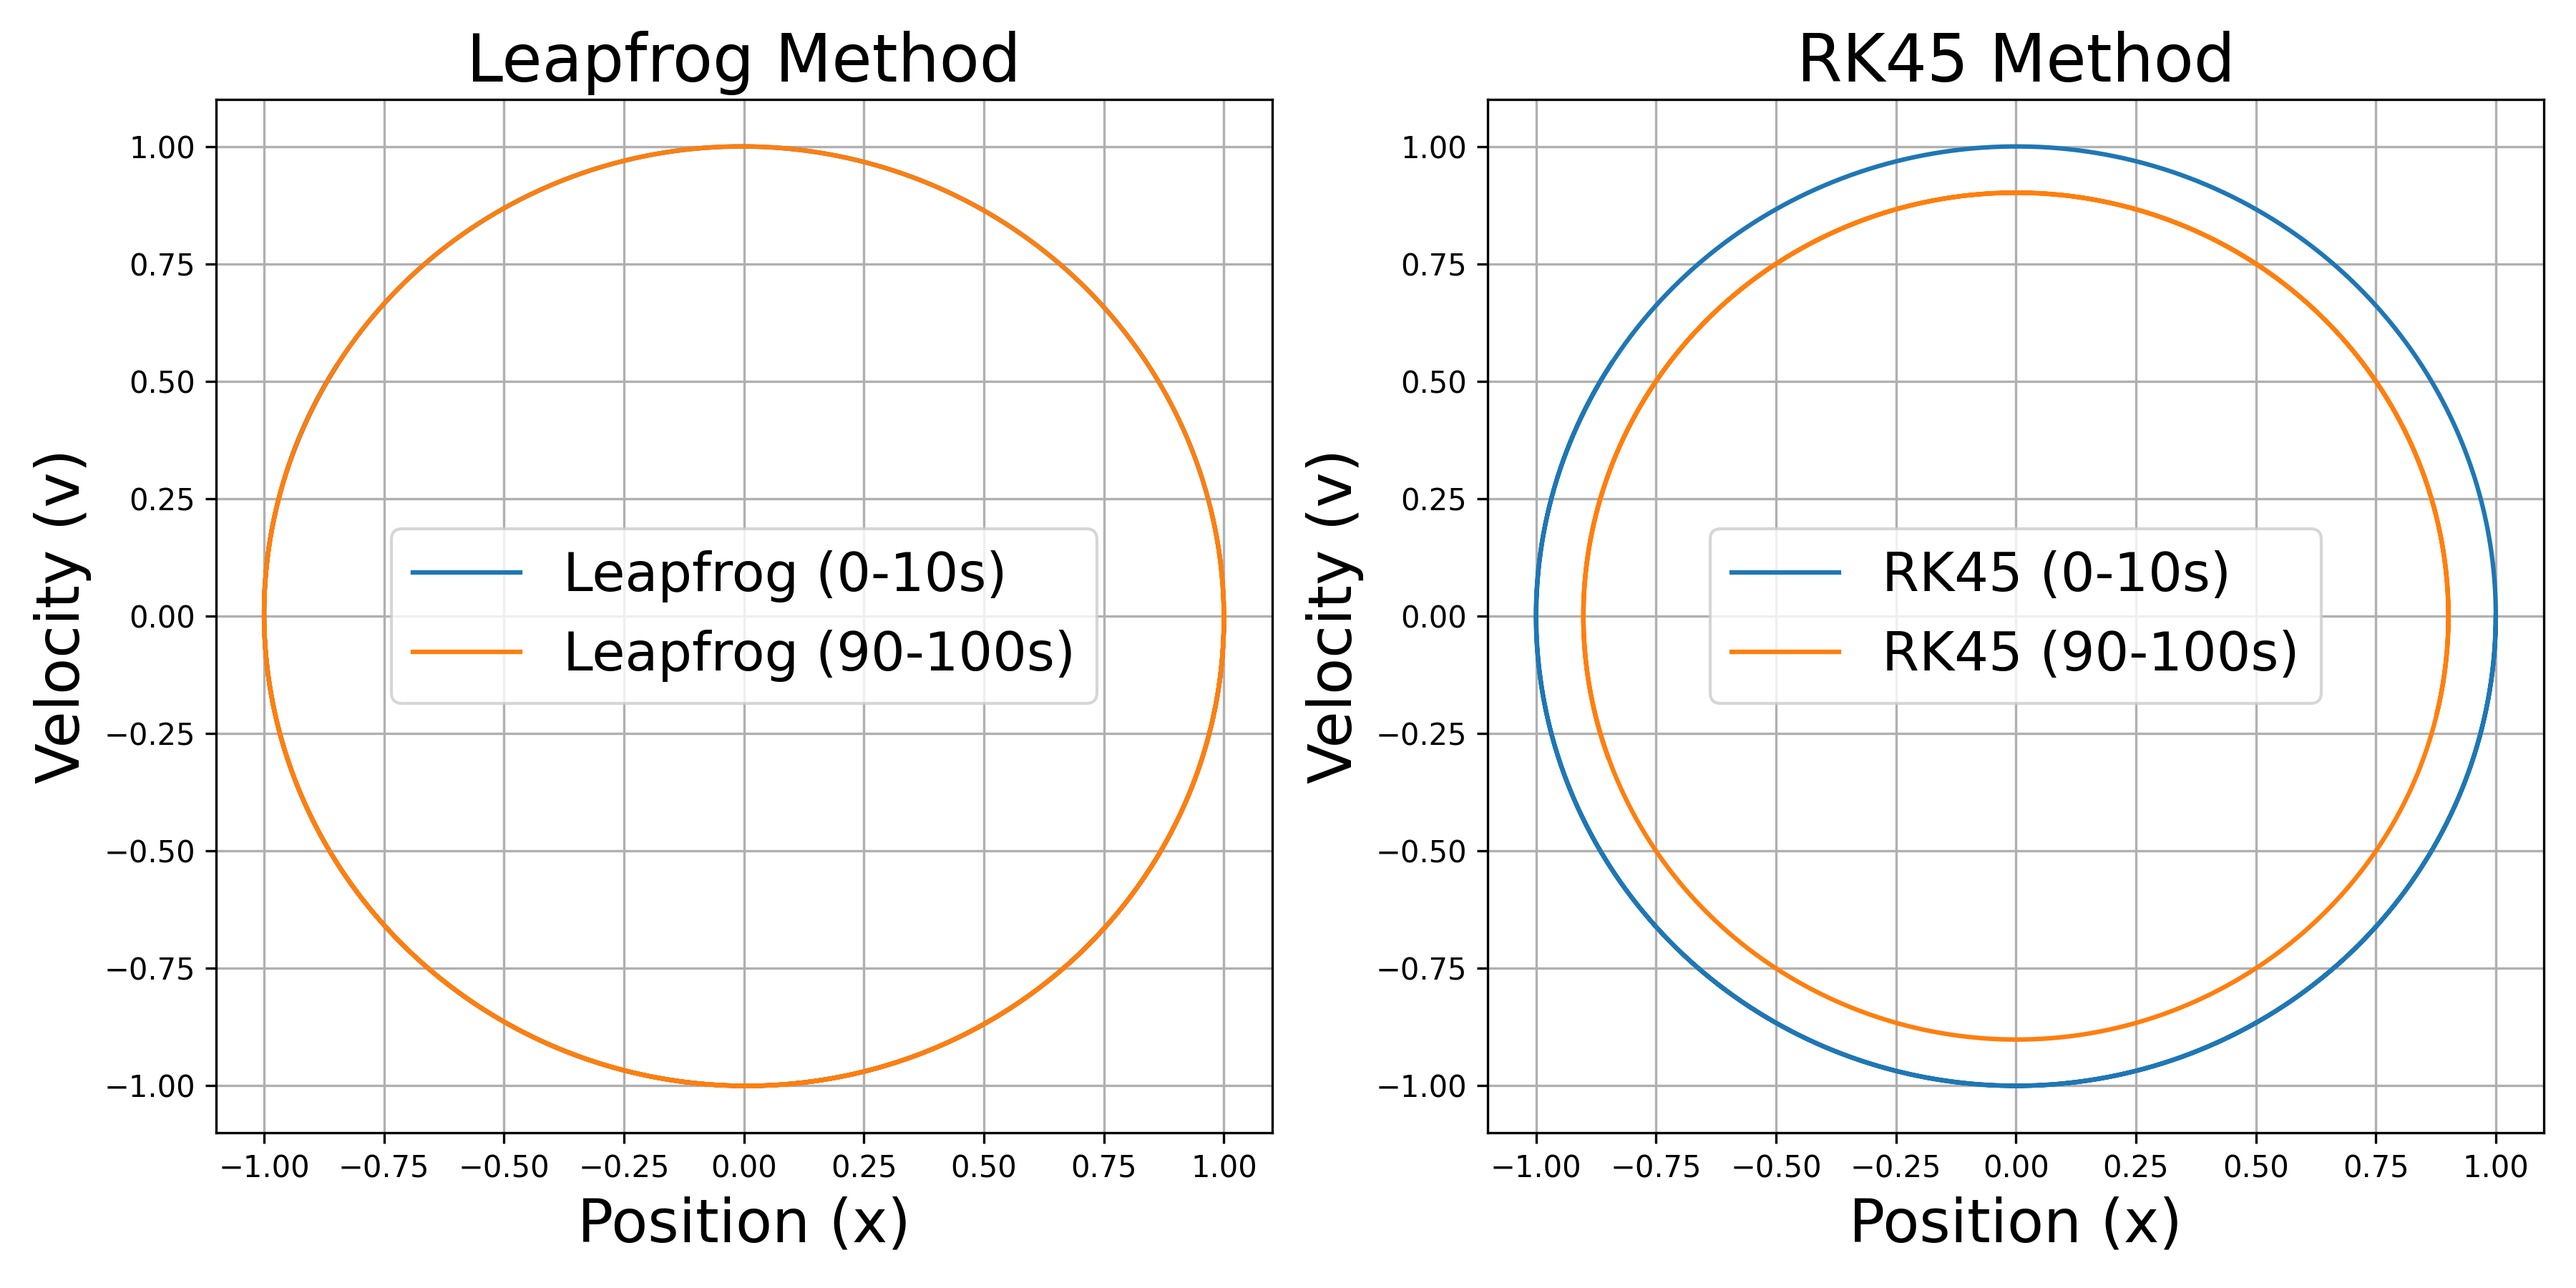
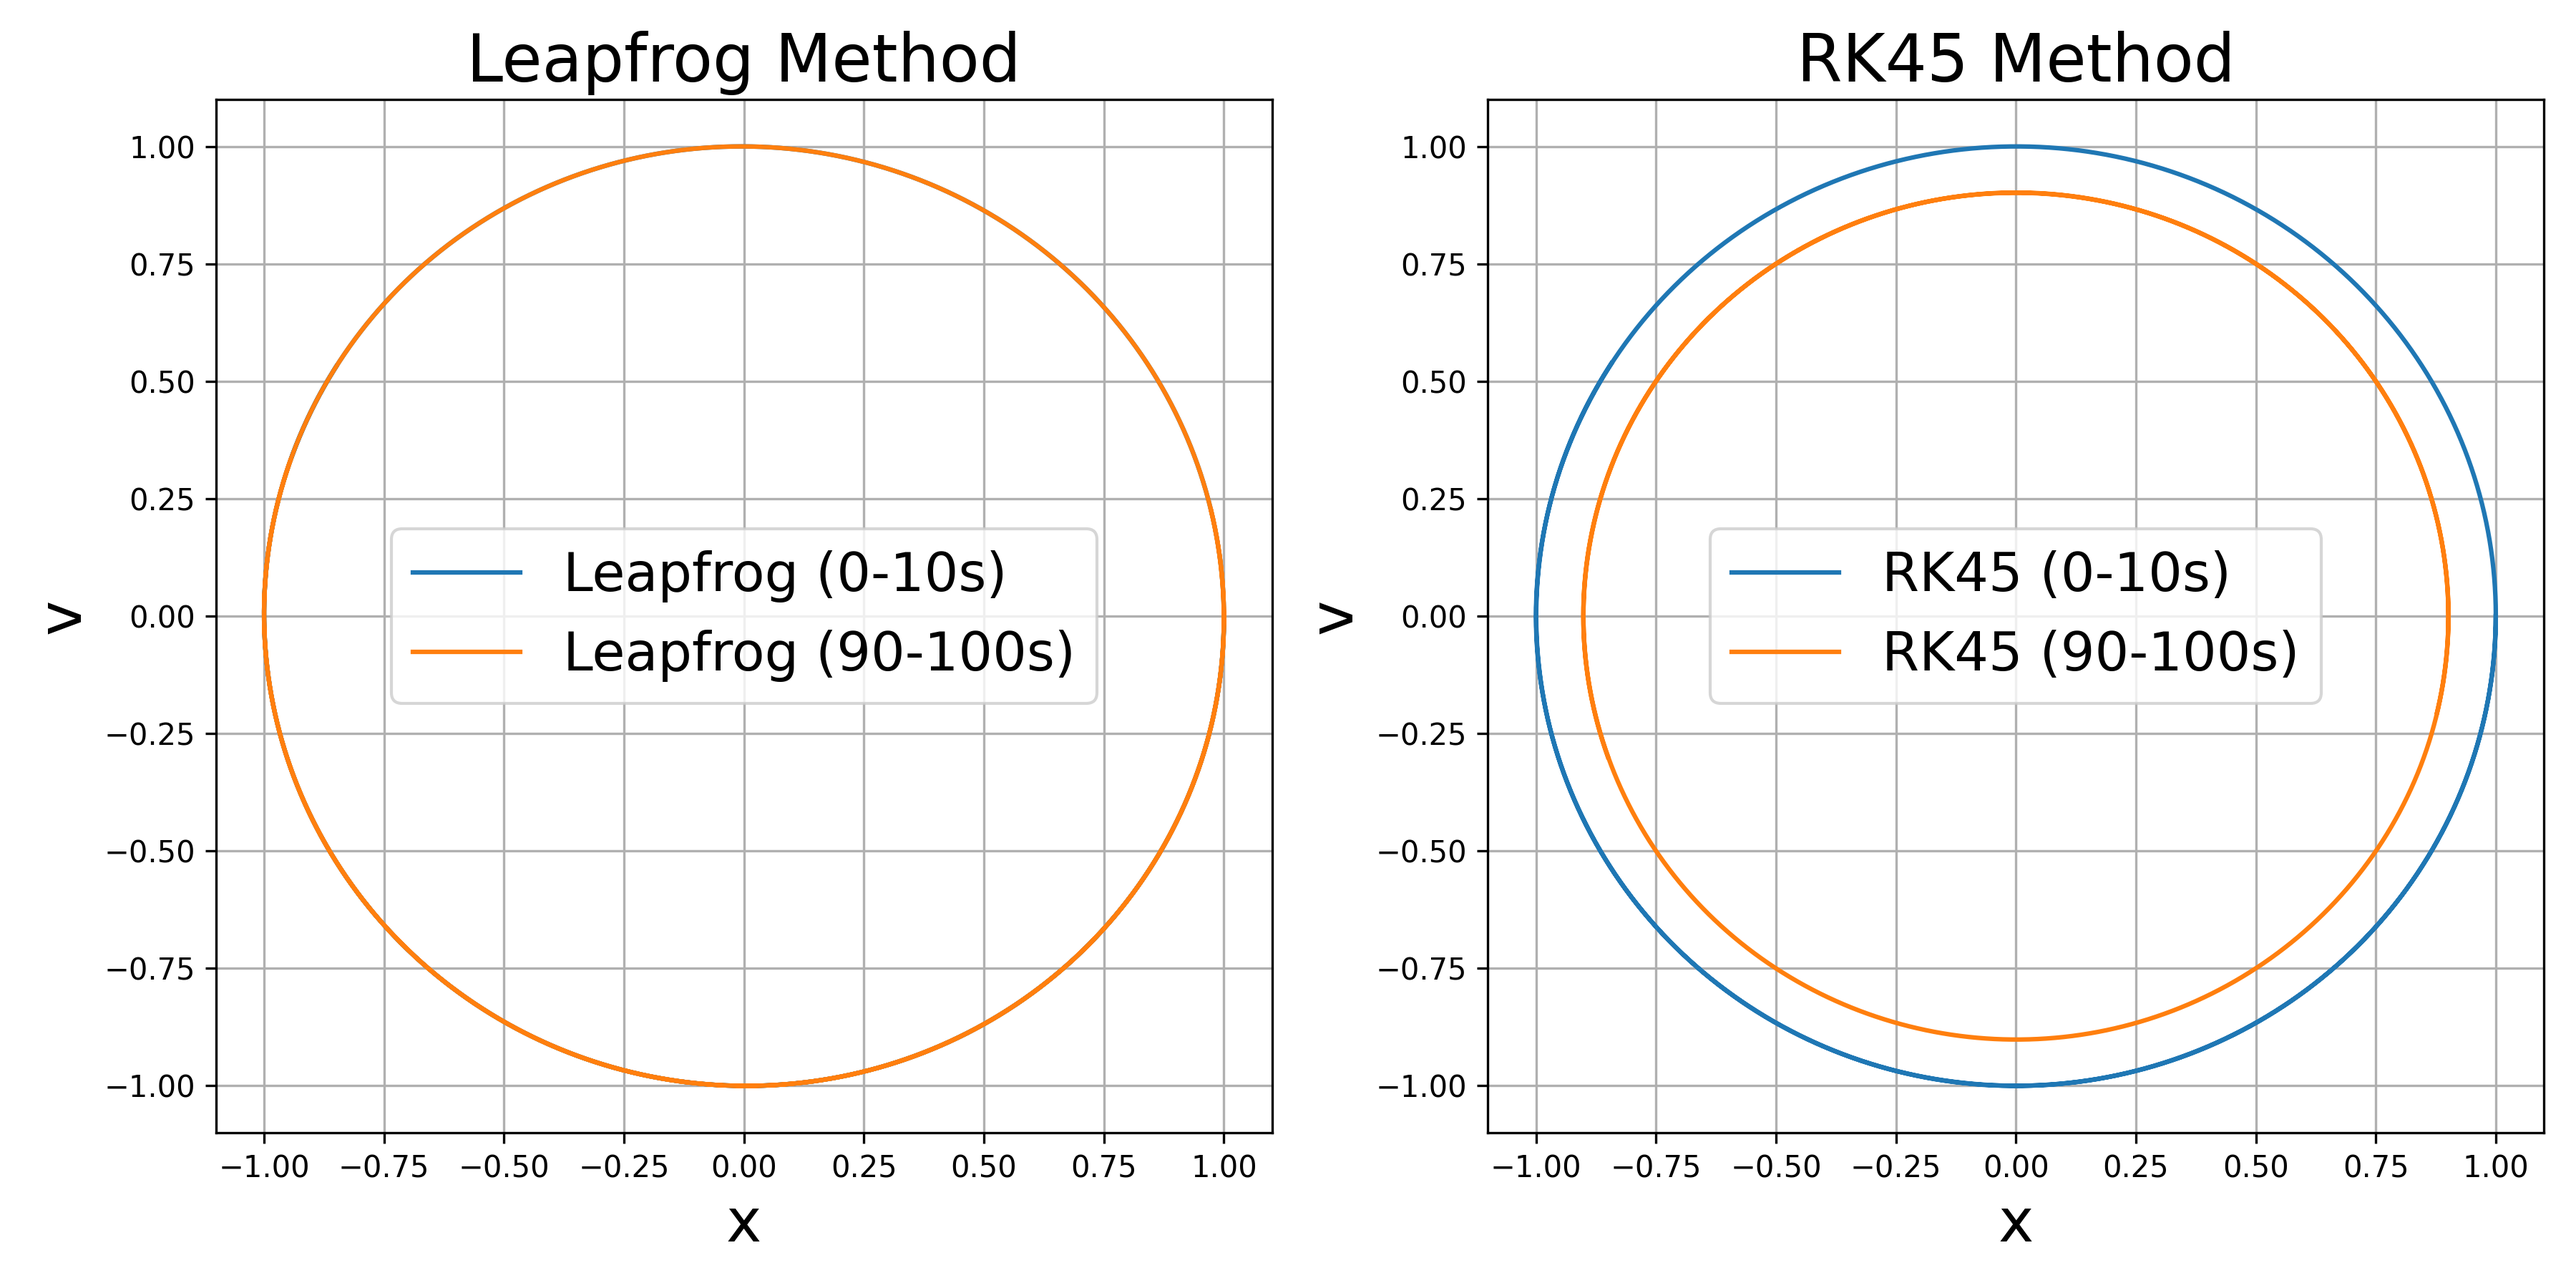
change some figures

diff --git a/homework3/src/exercise3.3.py b/homework3/src/exercise3.3.py
@@ -113,8 +113,8 @@ def compare_leapfrog_rk45(k, x0, v0, dt, T):
     plt.subplot(1, 2, 1)
     plt.plot(x_leapfrog[:1000], v_half_leapfrog[:1000], label='Leapfrog (0-10s)')
     plt.plot(x_leapfrog[-1000:], v_half_leapfrog[-1000:], label='Leapfrog (90-100s)')
-    plt.xlabel("Position (x)", fontsize=20)
-    plt.ylabel("Velocity (v)", fontsize=20)
+    plt.xlabel("x", fontsize=20)
+    plt.ylabel("v", fontsize=20)
     plt.title("Leapfrog Method", fontsize=22)
     plt.legend(fontsize=18)
     plt.grid()
@@ -123,8 +123,8 @@ def compare_leapfrog_rk45(k, x0, v0, dt, T):
     plt.subplot(1, 2, 2)
     plt.plot(x_rk45[:1000], v_rk45[:1000], label='RK45 (0-10s)')
     plt.plot(x_rk45[-1000:], v_rk45[-1000:], label='RK45 (90-100s)')
-    plt.xlabel("Position (x)", fontsize=20)
-    plt.ylabel("Velocity (v)", fontsize=20)
+    plt.xlabel("x", fontsize=20)
+    plt.ylabel("v", fontsize=20)
     plt.title("RK45 Method", fontsize=22)
     plt.legend(fontsize=18)
     plt.grid()
@@ -140,77 +140,87 @@ def plot_results():
 
     # Different k values for Task I
     k_values = [0.5, 1.0, 2.0]
+    
+    # Create a figure with 3 subplots
+    fig, axes = plt.subplots(3, 1, figsize=(10, 12))
 
     # Task I: Position vs. Time
-    plt.figure(figsize=(12, 4))
-    for k in k_values:
+    for i, k in enumerate(k_values):
         t, x, _ = leapfrog_harmonic_oscillator(k, x0, v0, dt, T_taskI)
-        plt.plot(t, x, label=f"k={k}")
-    plt.xlabel("Time (t)", fontsize=13)
-    plt.ylabel("Position (x)", fontsize=13)
-    plt.title("Position vs. Time for Different k Values", fontsize=15)
-    plt.legend(fontsize=13)
-    plt.grid()
-    plt.savefig(os.path.join("homework3/figure/figure3.3", "taskI_position_vs_time.png"), dpi=300)  # Save the figure
-    plt.show()
+        axes[0].plot(t, x, label=f"k={k}")
+    axes[0].set_xlabel("t", fontsize=20)
+    axes[0].set_ylabel("x", fontsize=20)
+    axes[0].set_title("x vs. t", fontsize=22)
+    axes[0].legend(fontsize=16)
+    axes[0].grid()
 
     # Task I: Velocity vs. Time
-    plt.figure(figsize=(12, 4))
-    for k in k_values:
+    for i, k in enumerate(k_values):
         t, _, v_half = leapfrog_harmonic_oscillator(k, x0, v0, dt, T_taskI)
-        plt.plot(t, v_half, label=f"k={k}")
-    plt.xlabel("Time (t)", fontsize=13)
-    plt.ylabel("Velocity (v)", fontsize=13)
-    plt.title("Velocity vs. Time for Different k Values", fontsize=15)
-    plt.legend(fontsize=13)
-    plt.grid()
-    plt.savefig(os.path.join("homework3/figure/figure3.3", "taskI_velocity_vs_time.png"), dpi=300)  # Save the figure
-    plt.show()
+        axes[1].plot(t, v_half, label=f"k={k}")
+    axes[1].set_xlabel("t", fontsize=20)
+    axes[1].set_ylabel("v", fontsize=20)
+    axes[1].set_title("v vs. t", fontsize=22)
+    axes[1].legend(fontsize=16)
+    axes[1].grid()
 
     # Task I: Phase Space (v vs. x)
-    plt.figure(figsize=(12, 4))
-    for k in k_values:
+    for i, k in enumerate(k_values):
         t, x, v_half = leapfrog_harmonic_oscillator(k, x0, v0, dt, T_taskI)
-        plt.plot(x, v_half, label=f"k={k}")
-    plt.xlabel("Position (x)", fontsize=13)
-    plt.ylabel("Velocity (v)", fontsize=13)
-    plt.title("Phase Space (v vs. x) for Different k Values", fontsize=15)
-    plt.legend(fontsize=13)
-    plt.grid()
-    plt.savefig(os.path.join("homework3/figure/figure3.3", "taskI_phase_space.png"), dpi=300)  # Save the figure
+        axes[2].plot(x, v_half, label=f"k={k}")
+    axes[2].set_xlabel("x", fontsize=20)
+    axes[2].set_ylabel("v", fontsize=20)
+    axes[2].set_title("v vs. x", fontsize=22)
+    axes[2].legend(fontsize=16)
+    axes[2].grid()
+
+    # Adjust layout and display
+    plt.subplots_adjust(hspace=0.4)
+    plt.savefig(os.path.join("homework3/figure/figure3.3", "taskI.png"), dpi=300)  # Save the figure
     plt.show()
 
     # Task J: Initial conditions
-    T_taskJ = 50.0  # Task J: T = 50
-    A = 0.5
-    omega_values = [0.8, 1.0, 1.2]  # Near resonance
-    colors = ['orange', 'blue', 'red']
+    T_taskJ = 50.0  # Total simulation time
+    A = 0.5  # Amplitude of the driving force
+    omega_values = [0.8, 1.0, 1.2]  # Driving frequencies near resonance
+    colors = ['orange', 'blue', 'red']  # Colors for different frequencies
 
-    # Task J: Combined Phase Space
-    plt.figure(figsize=(8, 6))
+    # Create a figure with 2 rows and 2 columns
+    fig, axes = plt.subplots(2, 2, figsize=(12, 10))  # 2x2 grid of subplots
+
+    # Plot the **Combined Phase Space** (Top-left subplot)
+    ax = axes[0, 0]  # First subplot (row=0, col=0)
     for i, omega in enumerate(omega_values):
         t, x, v_half = leapfrog_driven_oscillator(1.0, A, omega, x0, v0, dt, T_taskJ)
-        plt.plot(x, v_half, color=colors[i], label=f"ω={omega}")
-    plt.xlabel("Position (x)", fontsize=20)
-    plt.ylabel("Velocity (v)", fontsize=20)
-    plt.title("Combined Phase Space (v vs. x)", fontsize=22)
-    plt.legend(fontsize=16)
-    plt.grid()
-    plt.savefig(os.path.join("homework3/figure/figure3.3", "taskJ_combined_phase_space.png"), dpi=300)  # Save the figure
+        ax.plot(x, v_half, color=colors[i], label=f"ω={omega}")
+
+    ax.set_xlabel("x", fontsize=20)
+    ax.set_ylabel("v", fontsize=20)
+    ax.set_title("Combined Phase Space", fontsize=22)
+    ax.legend(fontsize=16)
+    ax.grid()
+
+    # Plot individual phase space for each ω
+    for i, omega in enumerate(omega_values):
+        row, col = divmod(i + 1, 2)  # Compute the (row, col) index for the subplot
+        ax = axes[row, col]  # Select the corresponding subplot
+
+        # Compute the phase space using Leapfrog method
+        t, x, v_half = leapfrog_driven_oscillator(1.0, A, omega, x0, v0, dt, T_taskJ)
+        ax.plot(x, v_half, color=colors[i], label=f"ω={omega}")
+
+        ax.set_xlabel("x", fontsize=20)
+        ax.set_ylabel("v", fontsize=20)
+        ax.set_title(f"v vs. x (ω={omega})", fontsize=22)
+        ax.legend(fontsize=16)
+        ax.grid()
+
+    # Adjust layout to prevent overlapping of titles and labels
+    plt.subplots_adjust(hspace=0.3)
+
+    # Save the figure
+    plt.savefig(os.path.join("homework3/figure/figure3.3", f"taskJ.png"), dpi=300)  # Save the figure
     plt.show()
-
-    # Task J: Individual Phase Space for each omega
-    for i, omega in enumerate(omega_values):
-        t, x, v_half = leapfrog_driven_oscillator(1.0, A, omega, x0, v0, dt, T_taskJ)
-        plt.figure(figsize=(8, 6))
-        plt.plot(x, v_half, color=colors[i], label=f"ω={omega}")
-        plt.xlabel("Position (x)", fontsize=20)
-        plt.ylabel("Velocity (v)", fontsize=20)
-        plt.title(f"Phase Space for ω={omega}", fontsize=22)
-        plt.legend(fontsize=16)
-        plt.grid()
-        plt.savefig(os.path.join("homework3/figure/figure3.3", f"taskJ_phase_space_omega_{omega}.png"), dpi=300)  # Save the figure
-        plt.show()
 
     
 # ----------------- Main Execution ----------------- #
